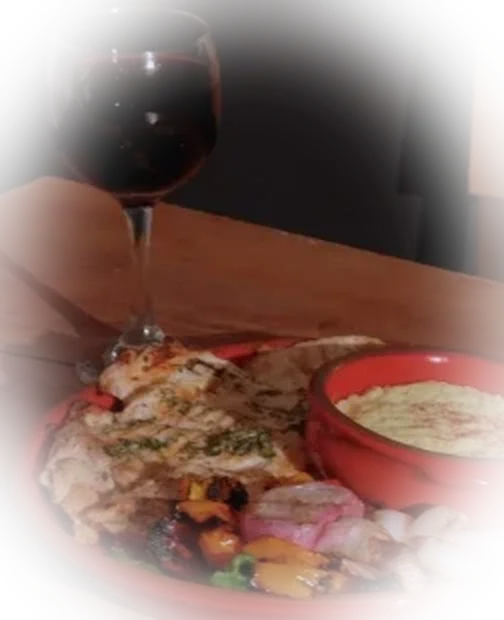
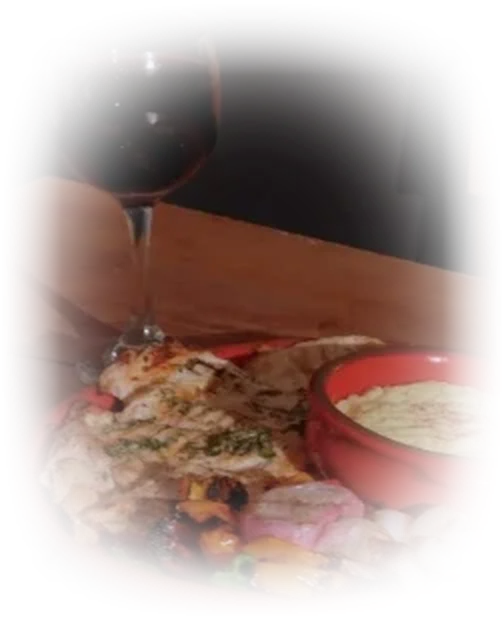
Jaguar House: estilo bistró oscuro (referencia de Daniel)

diff --git a/jaguar-house/modulos/restaurante/restaurante-datos.js b/jaguar-house/modulos/restaurante/restaurante-datos.js
@@ -1,2 +1,2 @@
 /* Datos del módulo de restaurante de Jaguar House (generado desde clientes/jaguar-house/cliente.json). Solo la clave anon de Supabase; nunca service_role (§4.11). Ver modulos/restaurante/README.md. */
-window.RESTDATA = {"logo": "assets/logo.webp", "api": {"modo": "demo"}, "stock_bajo": 5, "productos": [{"clave": "parrilla-1", "nombre": "Plato de la parrilla 1", "categoria": "parrilla", "precio_cent": 1290, "lema": "Ejemplo", "ingredientes": "Plato de ejemplo: se reemplaza con tu carta real", "foto": null, "cuenta_burger": true, "controla_stock": true, "orden": 0}, {"clave": "parrilla-2", "nombre": "Plato de la parrilla 2", "categoria": "parrilla", "precio_cent": 1490, "lema": "Ejemplo", "ingredientes": "Plato de ejemplo: se reemplaza con tu carta real", "foto": null, "cuenta_burger": true, "controla_stock": true, "orden": 1}, {"clave": "parrilla-3", "nombre": "Plato de la parrilla 3", "categoria": "parrilla", "precio_cent": 1690, "lema": "Ejemplo", "ingredientes": "Plato de ejemplo: se reemplaza con tu carta real", "foto": null, "cuenta_burger": true, "controla_stock": true, "orden": 2}, {"clave": "compartir-1", "nombre": "Tabla para compartir 1", "categoria": "compartir", "precio_cent": 1890, "lema": "Ejemplo", "ingredientes": "Plato de ejemplo: se reemplaza con tu carta real", "foto": null, "cuenta_burger": true, "controla_stock": true, "orden": 3}, {"clave": "compartir-2", "nombre": "Tabla para compartir 2", "categoria": "compartir", "precio_cent": 2290, "lema": "Ejemplo", "ingredientes": "Plato de ejemplo: se reemplaza con tu carta real", "foto": null, "cuenta_burger": true, "controla_stock": true, "orden": 4}, {"clave": "casa-1", "nombre": "Plato de la casa 1", "categoria": "casa", "precio_cent": 890, "lema": "Ejemplo", "ingredientes": "Plato de ejemplo: se reemplaza con tu carta real", "foto": null, "cuenta_burger": true, "controla_stock": true, "orden": 5}, {"clave": "casa-2", "nombre": "Plato de la casa 2", "categoria": "casa", "precio_cent": 990, "lema": "Ejemplo", "ingredientes": "Plato de ejemplo: se reemplaza con tu carta real", "foto": null, "cuenta_burger": true, "controla_stock": true, "orden": 6}, {"clave": "acomp-1", "nombre": "Acompañante 1", "categoria": "acomp", "precio_cent": 450, "lema": null, "ingredientes": null, "foto": null, "cuenta_burger": false, "controla_stock": false, "orden": 7}, {"clave": "acomp-2", "nombre": "Acompañante 2", "categoria": "acomp", "precio_cent": 350, "lema": null, "ingredientes": null, "foto": null, "cuenta_burger": false, "controla_stock": false, "orden": 8}, {"clave": "bebida-1", "nombre": "Bebida 1", "categoria": "bebidas", "precio_cent": 250, "lema": null, "ingredientes": null, "foto": null, "cuenta_burger": false, "controla_stock": false, "orden": 9}, {"clave": "bebida-2", "nombre": "Bebida 2", "categoria": "bebidas", "precio_cent": 350, "lema": null, "ingredientes": null, "foto": null, "cuenta_burger": false, "controla_stock": false, "orden": 10}, {"clave": "bebida-3", "nombre": "Trago de la casa (ejemplo)", "categoria": "bebidas", "precio_cent": 450, "lema": null, "ingredientes": null, "foto": null, "cuenta_burger": false, "controla_stock": false, "orden": 11}, {"clave": "x-1", "nombre": "Extra de ejemplo 1", "categoria": "extras", "precio_cent": 150, "lema": null, "ingredientes": null, "foto": null, "cuenta_burger": false, "controla_stock": false, "orden": 12}, {"clave": "x-2", "nombre": "Extra de ejemplo 2", "categoria": "extras", "precio_cent": 200, "lema": null, "ingredientes": null, "foto": null, "cuenta_burger": false, "controla_stock": false, "orden": 13}, {"clave": "x-3", "nombre": "Extra de ejemplo 3", "categoria": "extras", "precio_cent": 100, "lema": null, "ingredientes": null, "foto": null, "cuenta_burger": false, "controla_stock": false, "orden": 14}, {"clave": "x-4", "nombre": "Extra de ejemplo 4", "categoria": "extras", "precio_cent": 150, "lema": null, "ingredientes": null, "foto": null, "cuenta_burger": false, "controla_stock": false, "orden": 15}], "sectores": [{"nombre": "Baños centro", "costo_cent": 0}, {"nombre": "Zona 2 (ejemplo)", "costo_cent": 0}, {"nombre": "Zona 3 (ejemplo)", "costo_cent": 0}], "categorias": [{"id": "parrilla", "nombre": "La parrilla", "sub": "Del fuego", "ids": ["parrilla-1", "parrilla-2", "parrilla-3"]}, {"id": "compartir", "nombre": "Para compartir", "sub": "Para la mesa", "ids": ["compartir-1", "compartir-2"]}, {"id": "casa", "nombre": "Más platos", "sub": "De la casa", "ids": ["casa-1", "casa-2"]}, {"id": "acomp", "nombre": "Acompañantes", "sub": "Para acompañar", "ids": ["acomp-1", "acomp-2"]}, {"id": "bebidas", "nombre": "Bebidas", "sub": "Para brindar", "ids": ["bebida-1", "bebida-2", "bebida-3"]}], "vitrina": [{"id": "parrilla-1", "nombre": "Plato de la parrilla 1", "titulo": "Parrilla", "precio_cent": 1290, "intro": "Ejemplo", "ingredientes": "Plato de ejemplo: se reemplaza con tu carta real", "corte": "assets/corte-plato-brasa.webp", "alt": "Plato de carne con papas y copa de vino", "glow": "#b45a14"}, {"id": "compartir-1", "nombre": "Tabla para compartir 1", "titulo": "Mesa", "precio_cent": 1890, "intro": "Ejemplo", "ingredientes": "Plato de ejemplo: se reemplaza con tu carta real", "corte": "assets/corte-copa-tabla.webp", "alt": "Copa de vino y tabla servida", "glow": "#8a1c1c"}, {"id": null, "nombre": "Promo del día (ejemplo)", "titulo": "Fuego", "precio_cent": null, "etiqueta": "Promo del día (ejemplo)", "intro": "Aquí va la promo vigente: se actualiza con tu mantenimiento mensual.", "ingredientes": null, "corte": "assets/corte-grill-llamas.webp", "alt": "Carne en la parrilla con llamas", "glow": "#d9701a", "wa_texto": "Hola Jaguar House, quiero saber cuál es la promo de hoy."}], "demo": {"usuarios": [{"nombre": "Dueño", "rol": "admin"}, {"nombre": "Ana", "rol": "vendedor"}, {"nombre": "Beto", "rol": "vendedor"}], "equipo": ["Ana", "Beto"], "stock": {"parrilla-1": 60, "parrilla-2": 50, "parrilla-3": 60, "compartir-1": 40, "compartir-2": 40, "casa-1": 30, "casa-2": 25}, "pesos": [["parrilla-1", 22], ["parrilla-2", 18], ["parrilla-3", 16], ["compartir-1", 10], ["compartir-2", 12], ["casa-1", 8], ["casa-2", 5]], "acompanante": "acomp-2", "bebida": "bebida-1", "contador_base": 18240}, "burgers_txt": {"lleva": "Lo que lleva", "sin_ingredientes": "Ingredientes por confirmar con el local", "quedan": "Quedan {n} hoy", "agotada": "Agotada por hoy", "pedir_esta": "Pedir este plato", "consultar": "Consultar por WhatsApp", "led_titulo": "Platos vendidos en {anio}"}, "dashboard_txt": {"entrada_titulo": "Dashboard del dueño", "entrada_texto": "Entra para ver cuántos platos se venden hoy, qué queda en stock y cómo te piden, en tiempo real."}, "personal_txt": {"entrada_titulo": "Pantalla de ventas", "entrada_texto": "Entra para registrar cada plato que sale del local y confirmar los pedidos que llegan de la web."}, "juego_txt": null, "juego_premio": false, "sectores_ejemplo": true, "envio_por_confirmar": false};
+window.RESTDATA = {"logo": "assets/logo.webp", "api": {"modo": "demo"}, "stock_bajo": 5, "productos": [{"clave": "parrilla-1", "nombre": "Plato de la parrilla 1", "categoria": "parrilla", "precio_cent": 1290, "lema": "Del fuego a tu mesa", "ingredientes": "Plato de ejemplo: se reemplaza con tu carta real", "foto": null, "cuenta_burger": true, "controla_stock": true, "orden": 0}, {"clave": "parrilla-2", "nombre": "Plato de la parrilla 2", "categoria": "parrilla", "precio_cent": 1490, "lema": "Del fuego a tu mesa", "ingredientes": "Plato de ejemplo: se reemplaza con tu carta real", "foto": null, "cuenta_burger": true, "controla_stock": true, "orden": 1}, {"clave": "parrilla-3", "nombre": "Plato de la parrilla 3", "categoria": "parrilla", "precio_cent": 1690, "lema": "Del fuego a tu mesa", "ingredientes": "Plato de ejemplo: se reemplaza con tu carta real", "foto": null, "cuenta_burger": true, "controla_stock": true, "orden": 2}, {"clave": "compartir-1", "nombre": "Tabla para compartir 1", "categoria": "compartir", "precio_cent": 1890, "lema": "Para compartir en el RoofTop", "ingredientes": "Plato de ejemplo: se reemplaza con tu carta real", "foto": null, "cuenta_burger": true, "controla_stock": true, "orden": 3}, {"clave": "compartir-2", "nombre": "Tabla para compartir 2", "categoria": "compartir", "precio_cent": 2290, "lema": "Para compartir en el RoofTop", "ingredientes": "Plato de ejemplo: se reemplaza con tu carta real", "foto": null, "cuenta_burger": true, "controla_stock": true, "orden": 4}, {"clave": "casa-1", "nombre": "Plato de la casa 1", "categoria": "casa", "precio_cent": 890, "lema": "De la casa", "ingredientes": "Plato de ejemplo: se reemplaza con tu carta real", "foto": null, "cuenta_burger": true, "controla_stock": true, "orden": 5}, {"clave": "casa-2", "nombre": "Plato de la casa 2", "categoria": "casa", "precio_cent": 990, "lema": "De la casa", "ingredientes": "Plato de ejemplo: se reemplaza con tu carta real", "foto": null, "cuenta_burger": true, "controla_stock": true, "orden": 6}, {"clave": "acomp-1", "nombre": "Acompañante 1", "categoria": "acomp", "precio_cent": 450, "lema": null, "ingredientes": null, "foto": null, "cuenta_burger": false, "controla_stock": false, "orden": 7}, {"clave": "acomp-2", "nombre": "Acompañante 2", "categoria": "acomp", "precio_cent": 350, "lema": null, "ingredientes": null, "foto": null, "cuenta_burger": false, "controla_stock": false, "orden": 8}, {"clave": "bebida-1", "nombre": "Bebida 1", "categoria": "bebidas", "precio_cent": 250, "lema": null, "ingredientes": null, "foto": null, "cuenta_burger": false, "controla_stock": false, "orden": 9}, {"clave": "bebida-2", "nombre": "Bebida 2", "categoria": "bebidas", "precio_cent": 350, "lema": null, "ingredientes": null, "foto": null, "cuenta_burger": false, "controla_stock": false, "orden": 10}, {"clave": "bebida-3", "nombre": "Trago de la casa (ejemplo)", "categoria": "bebidas", "precio_cent": 450, "lema": null, "ingredientes": null, "foto": null, "cuenta_burger": false, "controla_stock": false, "orden": 11}, {"clave": "x-1", "nombre": "Extra de ejemplo 1", "categoria": "extras", "precio_cent": 150, "lema": null, "ingredientes": null, "foto": null, "cuenta_burger": false, "controla_stock": false, "orden": 12}, {"clave": "x-2", "nombre": "Extra de ejemplo 2", "categoria": "extras", "precio_cent": 200, "lema": null, "ingredientes": null, "foto": null, "cuenta_burger": false, "controla_stock": false, "orden": 13}, {"clave": "x-3", "nombre": "Extra de ejemplo 3", "categoria": "extras", "precio_cent": 100, "lema": null, "ingredientes": null, "foto": null, "cuenta_burger": false, "controla_stock": false, "orden": 14}, {"clave": "x-4", "nombre": "Extra de ejemplo 4", "categoria": "extras", "precio_cent": 150, "lema": null, "ingredientes": null, "foto": null, "cuenta_burger": false, "controla_stock": false, "orden": 15}], "sectores": [{"nombre": "Baños centro", "costo_cent": 0}, {"nombre": "Zona 2 (ejemplo)", "costo_cent": 0}, {"nombre": "Zona 3 (ejemplo)", "costo_cent": 0}], "categorias": [{"id": "parrilla", "nombre": "La parrilla", "sub": "Del fuego", "ids": ["parrilla-1", "parrilla-2", "parrilla-3"]}, {"id": "compartir", "nombre": "Para compartir", "sub": "Para la mesa", "ids": ["compartir-1", "compartir-2"]}, {"id": "casa", "nombre": "Más platos", "sub": "De la casa", "ids": ["casa-1", "casa-2"]}, {"id": "acomp", "nombre": "Acompañantes", "sub": "Para acompañar", "ids": ["acomp-1", "acomp-2"]}, {"id": "bebidas", "nombre": "Bebidas", "sub": "Para brindar", "ids": ["bebida-1", "bebida-2", "bebida-3"]}], "vitrina": [{"id": "parrilla-1", "nombre": "Plato de la parrilla 1", "titulo": "Parrilla", "precio_cent": 1290, "intro": "Del fuego a tu mesa", "ingredientes": "Plato de ejemplo: se reemplaza con tu carta real", "corte": "assets/corte-plato-brasa.webp", "alt": "Plato de carne con papas y copa de vino", "glow": "#b45a14"}, {"id": "compartir-1", "nombre": "Tabla para compartir 1", "titulo": "Mesa", "precio_cent": 1890, "intro": "Para compartir en el RoofTop", "ingredientes": "Plato de ejemplo: se reemplaza con tu carta real", "corte": "assets/corte-copa-tabla.webp", "alt": "Copa de vino y tabla servida", "glow": "#8a1c1c"}, {"id": "casa-1", "nombre": "Plato de la casa 1", "titulo": "Mar", "precio_cent": 890, "intro": "De la casa", "ingredientes": "Plato de ejemplo: se reemplaza con tu carta real", "corte": "assets/corte-camarones.webp", "alt": "Plato de camarones servido", "glow": "#8a1c1c"}, {"id": null, "nombre": "Promo del día (ejemplo)", "titulo": "Fuego", "precio_cent": null, "etiqueta": "Promo del día (ejemplo)", "intro": "Aquí va la promo vigente: se actualiza con tu mantenimiento mensual.", "ingredientes": null, "corte": "assets/corte-grill-llamas.webp", "alt": "Carne en la parrilla con llamas", "glow": "#d9701a", "wa_texto": "Hola Jaguar House, quiero saber cuál es la promo de hoy."}], "demo": {"usuarios": [{"nombre": "Dueño", "rol": "admin"}, {"nombre": "Ana", "rol": "vendedor"}, {"nombre": "Beto", "rol": "vendedor"}], "equipo": ["Ana", "Beto"], "stock": {"parrilla-1": 60, "parrilla-2": 50, "parrilla-3": 60, "compartir-1": 40, "compartir-2": 40, "casa-1": 30, "casa-2": 25}, "pesos": [["parrilla-1", 22], ["parrilla-2", 18], ["parrilla-3", 16], ["compartir-1", 10], ["compartir-2", 12], ["casa-1", 8], ["casa-2", 5]], "acompanante": "acomp-2", "bebida": "bebida-1", "contador_base": 18240}, "burgers_txt": {"lleva": "Lo que lleva", "sin_ingredientes": "Ingredientes por confirmar con el local", "quedan": "Quedan {n} hoy", "agotada": "Agotada por hoy", "pedir_esta": "Pedir este plato", "consultar": "Consultar por WhatsApp", "led_titulo": "Platos vendidos en {anio}"}, "dashboard_txt": {"entrada_titulo": "Dashboard del dueño", "entrada_texto": "Entra para ver cuántos platos se venden hoy, qué queda en stock y cómo te piden, en tiempo real."}, "personal_txt": {"entrada_titulo": "Pantalla de ventas", "entrada_texto": "Entra para registrar cada plato que sale del local y confirmar los pedidos que llegan de la web."}, "juego_txt": null, "juego_premio": false, "sectores_ejemplo": true, "envio_por_confirmar": false};

diff --git a/jaguar-house/efectos/bistro.css b/jaguar-house/efectos/bistro.css
@@ -1,0 +1,46 @@
+/* efectos/bistro.css · complemento OPCIONAL de estilo "bistró oscuro" (se elige con efectos.usar = ["bistro"]). Se carga después del perfil.
+   Referencia: web de restaurante oscura y cálida: foto de fondo desenfocada, titular serif centrado con botón rojo pequeño y tarjetas de platos.
+   Solo aplica a la landing con vitrina (body.rb-pagina). TODO ESTÁTICO (sin animaciones nuevas). Colores de la marca (--fx-*); la serif se carga en marca.fuentes_href.
+   El fondo es assets/fondo-bistro.webp del cliente (borroso a propósito: sirve con fotos de baja resolución). */
+body.rb-pagina { --bi-serif: "Playfair Display", Georgia, "Times New Roman", serif; --bi-rojo-texto: #fff; }
+.rb-pagina h1, .rb-pagina h2, .rb-pagina h3, .rb-pagina .doble { font-family: var(--bi-serif); text-transform: none; letter-spacing: 0; }
+.rb-pagina .doble span, .rb-pagina .rb-carta h2 span, .rb-pagina .rb-detalle h2 span { font-family: var(--bi-serif); font-style: italic; font-weight: 400; color: var(--fx-pop); }
+.rb-pagina .doble { text-align: center; }
+.rb-pagina .rb-fila, .rb-pagina .rb-glow { display: none; }
+.rb-pagina .rb-filas, .rb-pagina #rb-glows { display: none; }
+
+/* Portada: foto de fondo desenfocada, titular centrado, plato abajo */
+.rb-pagina .rb-hero { text-align: center; padding-bottom: clamp(26px, 4vw, 44px); min-height: min(100svh, 880px);
+  background: linear-gradient(180deg, rgba(10, 5, 4, .66) 0%, rgba(10, 5, 4, .28) 38%, rgba(10, 5, 4, .94) 100%), url("../assets/fondo-bistro.webp") center / cover no-repeat, var(--fx-deep-2); }
+.rb-pagina .rb-pie { display: contents; }
+.rb-pagina .rb-texto { order: 1; margin-top: clamp(120px, 13vw, 160px); padding-inline: 18px; display: grid; justify-items: center; }
+.rb-pagina .rb-escena { order: 2; margin-top: clamp(8px, 2vw, 22px); height: clamp(250px, 32vw, 440px); }
+.rb-pagina .rb-derecha { order: 3; align-self: center; margin-top: 8px; }
+.rb-pagina .rb-intro { font: italic 400 clamp(1.05rem, 1.8vw, 1.35rem)/1.3 var(--bi-serif); color: var(--fx-pop); margin-bottom: 6px; }
+.rb-pagina .rb-nombre { font: 700 clamp(2.5rem, 6.4vw, 5rem)/1.02 var(--bi-serif); text-transform: none; text-shadow: 0 4px 30px rgba(0, 0, 0, .55); }
+.rb-pagina .rb-desc { margin-top: 18px; padding: 13px 26px; border-radius: 4px; background: var(--fx-accent); color: var(--bi-rojo-texto); font: 600 1rem/1 var(--fx-font-txt); letter-spacing: .06em; text-transform: uppercase; }
+.rb-pagina .rb-precio { border-right-color: rgba(255, 255, 255, .55); font: 600 1.05rem/1 var(--fx-font-txt); margin-right: 12px; padding-right: 12px; }
+.rb-pagina .rb-slide img { filter: drop-shadow(0 30px 40px rgba(0, 0, 0, .7)); }
+.rb-pagina .rb-controles { gap: 6px; }
+.rb-pagina .rb-contador { display: none; }
+.rb-pagina .rb-pill { border-radius: 4px; border-width: 1px; letter-spacing: .08em; font-weight: 600; }
+.rb-pagina .rb-pill.lleno, .rb-pagina .rb-boton.lleno, .rb-pagina .btn, .rb-pagina .pd-btn { color: var(--bi-rojo-texto); }
+.rb-pagina .rb-boton, .rb-pagina .btn, .rb-pagina .pd-btn, .rb-pagina .pd-btn.pd-btn-full { border-radius: 4px; }
+
+/* Platos destacados / categorías: tarjetas con foto, título serif centrado y botón redondo */
+.rb-pagina .rb-cats .fila { justify-content: center; }
+.rb-pagina .rb-cat { text-align: center; }
+.rb-pagina .rb-cat .foto { border: 1px solid var(--fx-line-deep); border-radius: 10px; }
+.rb-pagina .rb-cat h3 { justify-content: center; font: 700 1.45rem/1.1 var(--bi-serif); }
+.rb-pagina .rb-cat h3 svg { width: 30px; height: 30px; padding: 7px; border: 1px solid var(--fx-pop); border-radius: 50%; }
+.rb-pagina .rb-cat p { max-width: 28ch; margin-inline: auto; }
+.rb-pagina .rb-cats .doble, .rb-pagina .rb-cats h2 { text-align: center; }
+.rb-pagina .rb-tarjeta, .rb-pagina .pd-item, .rb-pagina .caja { border-radius: 10px; }
+.rb-pagina .rb-ficha { border-radius: 4px; }
+@media (max-width: 760px) { .rb-pagina .rb-texto { margin-top: 112px; } .rb-pagina .rb-escena { height: 280px; margin-bottom: 0; } }
+.rb-pagina .rb-detalle h2, .rb-pagina .rb-carta h2, .rb-pagina .rb-tarjeta h3, .rb-pagina .pd-cat h2, .rb-pagina .pd-item h3, .rb-pagina .caja h2, .rb-pagina .caja h3, .rb-pagina .paso h3, .rb-pagina .cierre h2 { font-family: var(--bi-serif); text-transform: none; font-weight: 700; letter-spacing: 0; }
+.rb-pagina .rb-detalle h2 { font-size: clamp(1.7rem, 3.6vw, 2.4rem); }
+body.rb-pagina .pd-cat h2, body.rb-pagina .pd-cat h2 span, body.rb-pagina .pd-temporada h2, body.rb-pagina .pd-temporada h3, body.rb-pagina [class*="pd-temp"] h3, body.rb-pagina [class*="pd-temp"] h2 { font-family: var(--bi-serif); text-transform: none; letter-spacing: 0; }
+body.rb-pagina .pd-cat h2 { font-weight: 700; }
+body.rb-pagina .pd-cat h2 span { font-style: italic; font-weight: 400; }
+body.rb-pagina .pd-temporada h3 { font: 700 clamp(2rem, 7vw, 3rem)/1.05 var(--bi-serif); text-transform: none; }

diff --git a/jaguar-house/index.html b/jaguar-house/index.html
@@ -4,14 +4,15 @@
 <meta charset="utf-8">
 <meta name="viewport" content="width=device-width, initial-scale=1, viewport-fit=cover">
 <meta name="robots" content="noindex, nofollow">
-<meta name="theme-color" content="#0B0B0B">
+<meta name="theme-color" content="#0E0807">
 <link rel="icon" href="assets/favicon.png">
 <link rel="preconnect" href="https://fonts.googleapis.com"><link rel="preconnect" href="https://fonts.gstatic.com" crossorigin>
-<link rel="stylesheet" href="https://fonts.googleapis.com/css2?family=Bebas+Neue&amp;family=Outfit:wght@300;400;600;800&amp;display=swap" media="print" onload="this.media='all'"><noscript><link rel="stylesheet" href="https://fonts.googleapis.com/css2?family=Bebas+Neue&amp;family=Outfit:wght@300;400;600;800&amp;display=swap"></noscript>
+<link rel="stylesheet" href="https://fonts.googleapis.com/css2?family=Bebas+Neue&amp;family=Outfit:wght@300;400;600;800&amp;family=Playfair+Display:ital,wght@0,600;0,700;1,400&amp;display=swap" media="print" onload="this.media='all'"><noscript><link rel="stylesheet" href="https://fonts.googleapis.com/css2?family=Bebas+Neue&amp;family=Outfit:wght@300;400;600;800&amp;family=Playfair+Display:ital,wght@0,600;0,700;1,400&amp;display=swap"></noscript>
 <link rel="stylesheet" href="estilos/base.css">
 <link rel="stylesheet" href="efectos/base.css">
 <link rel="stylesheet" href="efectos/energia.css">
-<style>:root { --fx-bg: #F4F1EA; --fx-paper: #FFFFFF; --fx-accent: #F4F1EA; --fx-ink: #0B0B0B; --fx-deep: #0B0B0B; --fx-pop: #D9D3C7; --fx-font: "Outfit", Arial, sans-serif; --fx-font-disp: "Bebas Neue", Impact, "Arial Narrow", sans-serif; --fx-font-txt: "Outfit", Arial, sans-serif; --fx-deep-2: #000000; --fx-line-deep: #2A2A2A; --fx-soft: #E8E4DB; --fx-soft-2: #BDB8AD; --fx-warm: #7A6A55; --fx-chat: #E6E1D6; }</style>
+<link rel="stylesheet" href="efectos/bistro.css">
+<style>:root { --fx-bg: #F3E9DC; --fx-paper: #FFFFFF; --fx-accent: #B5121B; --fx-ink: #1A0F0C; --fx-deep: #1A0F0C; --fx-pop: #D8B08A; --fx-font: "Outfit", Arial, sans-serif; --fx-font-disp: "Bebas Neue", Impact, "Arial Narrow", sans-serif; --fx-font-txt: "Outfit", Arial, sans-serif; --fx-deep-2: #0E0807; --fx-line-deep: #3A2420; --fx-soft: #E8DCCD; --fx-soft-2: #BFA99A; --fx-warm: #7A5A3C; --fx-chat: #E9DDCD; }</style>
 
 <title>Demo de Jaguar House · página, vitrina, dashboard y pantalla de ventas</title>
 <meta name="description" content="Prueba la página de Jaguar House, la vitrina de platos, el dashboard del dueño y la pantalla de ventas del personal, todo con datos de ejemplo.">

diff --git a/jaguar-house/premium.html b/jaguar-house/premium.html
@@ -4,15 +4,16 @@
 <meta charset="utf-8">
 <meta name="viewport" content="width=device-width, initial-scale=1, viewport-fit=cover">
 <meta name="robots" content="noindex, nofollow">
-<meta name="theme-color" content="#0B0B0B">
+<meta name="theme-color" content="#0E0807">
 <link rel="icon" href="assets/favicon.png">
 <link rel="preconnect" href="https://fonts.googleapis.com"><link rel="preconnect" href="https://fonts.gstatic.com" crossorigin>
-<link rel="stylesheet" href="https://fonts.googleapis.com/css2?family=Bebas+Neue&amp;family=Outfit:wght@300;400;600;800&amp;display=swap" media="print" onload="this.media='all'"><noscript><link rel="stylesheet" href="https://fonts.googleapis.com/css2?family=Bebas+Neue&amp;family=Outfit:wght@300;400;600;800&amp;display=swap"></noscript>
+<link rel="stylesheet" href="https://fonts.googleapis.com/css2?family=Bebas+Neue&amp;family=Outfit:wght@300;400;600;800&amp;family=Playfair+Display:ital,wght@0,600;0,700;1,400&amp;display=swap" media="print" onload="this.media='all'"><noscript><link rel="stylesheet" href="https://fonts.googleapis.com/css2?family=Bebas+Neue&amp;family=Outfit:wght@300;400;600;800&amp;family=Playfair+Display:ital,wght@0,600;0,700;1,400&amp;display=swap"></noscript>
 <link rel="stylesheet" href="estilos/base.css">
 <link rel="stylesheet" href="efectos/base.css">
 <link rel="stylesheet" href="efectos/energia.css">
+<link rel="stylesheet" href="efectos/bistro.css">
 <link rel="stylesheet" href="motor/pedido.css">
-<style>:root { --fx-bg: #F4F1EA; --fx-paper: #FFFFFF; --fx-accent: #F4F1EA; --fx-ink: #0B0B0B; --fx-deep: #0B0B0B; --fx-pop: #D9D3C7; --fx-font: "Outfit", Arial, sans-serif; --fx-font-disp: "Bebas Neue", Impact, "Arial Narrow", sans-serif; --fx-font-txt: "Outfit", Arial, sans-serif; --fx-deep-2: #000000; --fx-line-deep: #2A2A2A; --fx-soft: #E8E4DB; --fx-soft-2: #BDB8AD; --fx-warm: #7A6A55; --fx-chat: #E6E1D6; }</style>
+<style>:root { --fx-bg: #F3E9DC; --fx-paper: #FFFFFF; --fx-accent: #B5121B; --fx-ink: #1A0F0C; --fx-deep: #1A0F0C; --fx-pop: #D8B08A; --fx-font: "Outfit", Arial, sans-serif; --fx-font-disp: "Bebas Neue", Impact, "Arial Narrow", sans-serif; --fx-font-txt: "Outfit", Arial, sans-serif; --fx-deep-2: #0E0807; --fx-line-deep: #3A2420; --fx-soft: #E8DCCD; --fx-soft-2: #BFA99A; --fx-warm: #7A5A3C; --fx-chat: #E9DDCD; }</style>
 
 <title>Jaguar House · Versión Premium</title>
 <meta name="description" content="Pantalla Premium de la demo de Jaguar House: envío por sector, pedidos programados y reporte.">

diff --git a/jaguar-house/personal.html b/jaguar-house/personal.html
@@ -4,14 +4,15 @@
 <meta charset="utf-8">
 <meta name="viewport" content="width=device-width, initial-scale=1, viewport-fit=cover">
 <meta name="robots" content="noindex, nofollow">
-<meta name="theme-color" content="#0B0B0B">
+<meta name="theme-color" content="#0E0807">
 <link rel="icon" href="assets/favicon.png">
 <link rel="preconnect" href="https://fonts.googleapis.com"><link rel="preconnect" href="https://fonts.gstatic.com" crossorigin>
-<link rel="stylesheet" href="https://fonts.googleapis.com/css2?family=Bebas+Neue&amp;family=Outfit:wght@300;400;600;800&amp;display=swap" media="print" onload="this.media='all'"><noscript><link rel="stylesheet" href="https://fonts.googleapis.com/css2?family=Bebas+Neue&amp;family=Outfit:wght@300;400;600;800&amp;display=swap"></noscript>
+<link rel="stylesheet" href="https://fonts.googleapis.com/css2?family=Bebas+Neue&amp;family=Outfit:wght@300;400;600;800&amp;family=Playfair+Display:ital,wght@0,600;0,700;1,400&amp;display=swap" media="print" onload="this.media='all'"><noscript><link rel="stylesheet" href="https://fonts.googleapis.com/css2?family=Bebas+Neue&amp;family=Outfit:wght@300;400;600;800&amp;family=Playfair+Display:ital,wght@0,600;0,700;1,400&amp;display=swap"></noscript>
 <link rel="stylesheet" href="estilos/base.css">
 <link rel="stylesheet" href="efectos/base.css">
 <link rel="stylesheet" href="efectos/energia.css">
-<style>:root { --fx-bg: #F4F1EA; --fx-paper: #FFFFFF; --fx-accent: #F4F1EA; --fx-ink: #0B0B0B; --fx-deep: #0B0B0B; --fx-pop: #D9D3C7; --fx-font: "Outfit", Arial, sans-serif; --fx-font-disp: "Bebas Neue", Impact, "Arial Narrow", sans-serif; --fx-font-txt: "Outfit", Arial, sans-serif; --fx-deep-2: #000000; --fx-line-deep: #2A2A2A; --fx-soft: #E8E4DB; --fx-soft-2: #BDB8AD; --fx-warm: #7A6A55; --fx-chat: #E6E1D6; }</style>
+<link rel="stylesheet" href="efectos/bistro.css">
+<style>:root { --fx-bg: #F3E9DC; --fx-paper: #FFFFFF; --fx-accent: #B5121B; --fx-ink: #1A0F0C; --fx-deep: #1A0F0C; --fx-pop: #D8B08A; --fx-font: "Outfit", Arial, sans-serif; --fx-font-disp: "Bebas Neue", Impact, "Arial Narrow", sans-serif; --fx-font-txt: "Outfit", Arial, sans-serif; --fx-deep-2: #0E0807; --fx-line-deep: #3A2420; --fx-soft: #E8DCCD; --fx-soft-2: #BFA99A; --fx-warm: #7A5A3C; --fx-chat: #E9DDCD; }</style>
 
 <title>Pantalla de ventas · Jaguar House (Premium)</title>
 <meta name="description" content="Pantalla del personal de Jaguar House: registrar ventas del local, confirmar pedidos de la web y anular errores.">

diff --git a/jaguar-house/inicio.html b/jaguar-house/inicio.html
@@ -4,15 +4,16 @@
 <meta charset="utf-8">
 <meta name="viewport" content="width=device-width, initial-scale=1, viewport-fit=cover">
 <meta name="robots" content="noindex, nofollow">
-<meta name="theme-color" content="#0B0B0B">
+<meta name="theme-color" content="#0E0807">
 <link rel="icon" href="assets/favicon.png">
 <link rel="preconnect" href="https://fonts.googleapis.com"><link rel="preconnect" href="https://fonts.gstatic.com" crossorigin>
-<link rel="stylesheet" href="https://fonts.googleapis.com/css2?family=Bebas+Neue&amp;family=Outfit:wght@300;400;600;800&amp;display=swap" media="print" onload="this.media='all'"><noscript><link rel="stylesheet" href="https://fonts.googleapis.com/css2?family=Bebas+Neue&amp;family=Outfit:wght@300;400;600;800&amp;display=swap"></noscript>
+<link rel="stylesheet" href="https://fonts.googleapis.com/css2?family=Bebas+Neue&amp;family=Outfit:wght@300;400;600;800&amp;family=Playfair+Display:ital,wght@0,600;0,700;1,400&amp;display=swap" media="print" onload="this.media='all'"><noscript><link rel="stylesheet" href="https://fonts.googleapis.com/css2?family=Bebas+Neue&amp;family=Outfit:wght@300;400;600;800&amp;family=Playfair+Display:ital,wght@0,600;0,700;1,400&amp;display=swap"></noscript>
 <link rel="stylesheet" href="estilos/base.css">
 <link rel="stylesheet" href="efectos/base.css">
 <link rel="stylesheet" href="efectos/energia.css">
+<link rel="stylesheet" href="efectos/bistro.css">
 <link rel="stylesheet" href="motor/pedido.css">
-<style>:root { --fx-bg: #F4F1EA; --fx-paper: #FFFFFF; --fx-accent: #F4F1EA; --fx-ink: #0B0B0B; --fx-deep: #0B0B0B; --fx-pop: #D9D3C7; --fx-font: "Outfit", Arial, sans-serif; --fx-font-disp: "Bebas Neue", Impact, "Arial Narrow", sans-serif; --fx-font-txt: "Outfit", Arial, sans-serif; --fx-deep-2: #000000; --fx-line-deep: #2A2A2A; --fx-soft: #E8E4DB; --fx-soft-2: #BDB8AD; --fx-warm: #7A6A55; --fx-chat: #E6E1D6; }</style>
+<style>:root { --fx-bg: #F3E9DC; --fx-paper: #FFFFFF; --fx-accent: #B5121B; --fx-ink: #1A0F0C; --fx-deep: #1A0F0C; --fx-pop: #D8B08A; --fx-font: "Outfit", Arial, sans-serif; --fx-font-disp: "Bebas Neue", Impact, "Arial Narrow", sans-serif; --fx-font-txt: "Outfit", Arial, sans-serif; --fx-deep-2: #0E0807; --fx-line-deep: #3A2420; --fx-soft: #E8DCCD; --fx-soft-2: #BFA99A; --fx-warm: #7A5A3C; --fx-chat: #E9DDCD; }</style>
 
 <link rel="stylesheet" href="modulos/restaurante/rest.css">
 <link rel="preload" as="image" href="assets/corte-plato-brasa.webp" fetchpriority="high">

diff --git a/jaguar-house/dashboard.html b/jaguar-house/dashboard.html
@@ -4,14 +4,15 @@
 <meta charset="utf-8">
 <meta name="viewport" content="width=device-width, initial-scale=1, viewport-fit=cover">
 <meta name="robots" content="noindex, nofollow">
-<meta name="theme-color" content="#0B0B0B">
+<meta name="theme-color" content="#0E0807">
 <link rel="icon" href="assets/favicon.png">
 <link rel="preconnect" href="https://fonts.googleapis.com"><link rel="preconnect" href="https://fonts.gstatic.com" crossorigin>
-<link rel="stylesheet" href="https://fonts.googleapis.com/css2?family=Bebas+Neue&amp;family=Outfit:wght@300;400;600;800&amp;display=swap" media="print" onload="this.media='all'"><noscript><link rel="stylesheet" href="https://fonts.googleapis.com/css2?family=Bebas+Neue&amp;family=Outfit:wght@300;400;600;800&amp;display=swap"></noscript>
+<link rel="stylesheet" href="https://fonts.googleapis.com/css2?family=Bebas+Neue&amp;family=Outfit:wght@300;400;600;800&amp;family=Playfair+Display:ital,wght@0,600;0,700;1,400&amp;display=swap" media="print" onload="this.media='all'"><noscript><link rel="stylesheet" href="https://fonts.googleapis.com/css2?family=Bebas+Neue&amp;family=Outfit:wght@300;400;600;800&amp;family=Playfair+Display:ital,wght@0,600;0,700;1,400&amp;display=swap"></noscript>
 <link rel="stylesheet" href="estilos/base.css">
 <link rel="stylesheet" href="efectos/base.css">
 <link rel="stylesheet" href="efectos/energia.css">
-<style>:root { --fx-bg: #F4F1EA; --fx-paper: #FFFFFF; --fx-accent: #F4F1EA; --fx-ink: #0B0B0B; --fx-deep: #0B0B0B; --fx-pop: #D9D3C7; --fx-font: "Outfit", Arial, sans-serif; --fx-font-disp: "Bebas Neue", Impact, "Arial Narrow", sans-serif; --fx-font-txt: "Outfit", Arial, sans-serif; --fx-deep-2: #000000; --fx-line-deep: #2A2A2A; --fx-soft: #E8E4DB; --fx-soft-2: #BDB8AD; --fx-warm: #7A6A55; --fx-chat: #E6E1D6; }</style>
+<link rel="stylesheet" href="efectos/bistro.css">
+<style>:root { --fx-bg: #F3E9DC; --fx-paper: #FFFFFF; --fx-accent: #B5121B; --fx-ink: #1A0F0C; --fx-deep: #1A0F0C; --fx-pop: #D8B08A; --fx-font: "Outfit", Arial, sans-serif; --fx-font-disp: "Bebas Neue", Impact, "Arial Narrow", sans-serif; --fx-font-txt: "Outfit", Arial, sans-serif; --fx-deep-2: #0E0807; --fx-line-deep: #3A2420; --fx-soft: #E8DCCD; --fx-soft-2: #BFA99A; --fx-warm: #7A5A3C; --fx-chat: #E9DDCD; }</style>
 
 <title>Dashboard del dueño · Jaguar House (Premium)</title>
 <meta name="description" content="Dashboard en vivo de Jaguar House: cuántos platos se venden, qué queda en stock y cómo te piden.">

diff --git a/jaguar-house/panel.html b/jaguar-house/panel.html
@@ -4,15 +4,16 @@
 <meta charset="utf-8">
 <meta name="viewport" content="width=device-width, initial-scale=1, viewport-fit=cover">
 <meta name="robots" content="noindex, nofollow">
-<meta name="theme-color" content="#0B0B0B">
+<meta name="theme-color" content="#0E0807">
 <link rel="icon" href="assets/favicon.png">
 <link rel="preconnect" href="https://fonts.googleapis.com"><link rel="preconnect" href="https://fonts.gstatic.com" crossorigin>
-<link rel="stylesheet" href="https://fonts.googleapis.com/css2?family=Bebas+Neue&amp;family=Outfit:wght@300;400;600;800&amp;display=swap" media="print" onload="this.media='all'"><noscript><link rel="stylesheet" href="https://fonts.googleapis.com/css2?family=Bebas+Neue&amp;family=Outfit:wght@300;400;600;800&amp;display=swap"></noscript>
+<link rel="stylesheet" href="https://fonts.googleapis.com/css2?family=Bebas+Neue&amp;family=Outfit:wght@300;400;600;800&amp;family=Playfair+Display:ital,wght@0,600;0,700;1,400&amp;display=swap" media="print" onload="this.media='all'"><noscript><link rel="stylesheet" href="https://fonts.googleapis.com/css2?family=Bebas+Neue&amp;family=Outfit:wght@300;400;600;800&amp;family=Playfair+Display:ital,wght@0,600;0,700;1,400&amp;display=swap"></noscript>
 <link rel="stylesheet" href="estilos/base.css">
 <link rel="stylesheet" href="efectos/base.css">
 <link rel="stylesheet" href="efectos/energia.css">
+<link rel="stylesheet" href="efectos/bistro.css">
 <link rel="stylesheet" href="motor/pedido.css">
-<style>:root { --fx-bg: #F4F1EA; --fx-paper: #FFFFFF; --fx-accent: #F4F1EA; --fx-ink: #0B0B0B; --fx-deep: #0B0B0B; --fx-pop: #D9D3C7; --fx-font: "Outfit", Arial, sans-serif; --fx-font-disp: "Bebas Neue", Impact, "Arial Narrow", sans-serif; --fx-font-txt: "Outfit", Arial, sans-serif; --fx-deep-2: #000000; --fx-line-deep: #2A2A2A; --fx-soft: #E8E4DB; --fx-soft-2: #BDB8AD; --fx-warm: #7A6A55; --fx-chat: #E6E1D6; }</style>
+<style>:root { --fx-bg: #F3E9DC; --fx-paper: #FFFFFF; --fx-accent: #B5121B; --fx-ink: #1A0F0C; --fx-deep: #1A0F0C; --fx-pop: #D8B08A; --fx-font: "Outfit", Arial, sans-serif; --fx-font-disp: "Bebas Neue", Impact, "Arial Narrow", sans-serif; --fx-font-txt: "Outfit", Arial, sans-serif; --fx-deep-2: #0E0807; --fx-line-deep: #3A2420; --fx-soft: #E8DCCD; --fx-soft-2: #BFA99A; --fx-warm: #7A5A3C; --fx-chat: #E9DDCD; }</style>
 
 <title>Lo que recibe Jaguar House · Panel de pedidos (Pro)</title>
 <meta name="description" content="Panel de pedidos de la demo de Jaguar House.">

diff --git a/jaguar-house/propuesta.html b/jaguar-house/propuesta.html
@@ -4,14 +4,15 @@
 <meta charset="utf-8">
 <meta name="viewport" content="width=device-width, initial-scale=1, viewport-fit=cover">
 <meta name="robots" content="noindex, nofollow">
-<meta name="theme-color" content="#0B0B0B">
+<meta name="theme-color" content="#0E0807">
 <link rel="icon" href="assets/favicon.png">
 <link rel="preconnect" href="https://fonts.googleapis.com"><link rel="preconnect" href="https://fonts.gstatic.com" crossorigin>
-<link rel="stylesheet" href="https://fonts.googleapis.com/css2?family=Bebas+Neue&amp;family=Outfit:wght@300;400;600;800&amp;display=swap" media="print" onload="this.media='all'"><noscript><link rel="stylesheet" href="https://fonts.googleapis.com/css2?family=Bebas+Neue&amp;family=Outfit:wght@300;400;600;800&amp;display=swap"></noscript>
+<link rel="stylesheet" href="https://fonts.googleapis.com/css2?family=Bebas+Neue&amp;family=Outfit:wght@300;400;600;800&amp;family=Playfair+Display:ital,wght@0,600;0,700;1,400&amp;display=swap" media="print" onload="this.media='all'"><noscript><link rel="stylesheet" href="https://fonts.googleapis.com/css2?family=Bebas+Neue&amp;family=Outfit:wght@300;400;600;800&amp;family=Playfair+Display:ital,wght@0,600;0,700;1,400&amp;display=swap"></noscript>
 <link rel="stylesheet" href="estilos/base.css">
 <link rel="stylesheet" href="efectos/base.css">
 <link rel="stylesheet" href="efectos/energia.css">
-<style>:root { --fx-bg: #F4F1EA; --fx-paper: #FFFFFF; --fx-accent: #F4F1EA; --fx-ink: #0B0B0B; --fx-deep: #0B0B0B; --fx-pop: #D9D3C7; --fx-font: "Outfit", Arial, sans-serif; --fx-font-disp: "Bebas Neue", Impact, "Arial Narrow", sans-serif; --fx-font-txt: "Outfit", Arial, sans-serif; --fx-deep-2: #000000; --fx-line-deep: #2A2A2A; --fx-soft: #E8E4DB; --fx-soft-2: #BDB8AD; --fx-warm: #7A6A55; --fx-chat: #E6E1D6; }</style>
+<link rel="stylesheet" href="efectos/bistro.css">
+<style>:root { --fx-bg: #F3E9DC; --fx-paper: #FFFFFF; --fx-accent: #B5121B; --fx-ink: #1A0F0C; --fx-deep: #1A0F0C; --fx-pop: #D8B08A; --fx-font: "Outfit", Arial, sans-serif; --fx-font-disp: "Bebas Neue", Impact, "Arial Narrow", sans-serif; --fx-font-txt: "Outfit", Arial, sans-serif; --fx-deep-2: #0E0807; --fx-line-deep: #3A2420; --fx-soft: #E8DCCD; --fx-soft-2: #BFA99A; --fx-warm: #7A5A3C; --fx-chat: #E9DDCD; }</style>
 
 <link rel="stylesheet" href="estilos/modulos.css">
 <title>Propuesta · Jaguar House</title>

diff --git a/jaguar-house/menu.js b/jaguar-house/menu.js
@@ -11,21 +11,21 @@ window.MENU = {
           "id": "parrilla-1",
           "nombre": "Plato de la parrilla 1",
           "precio": 1290,
-          "lema": "Ejemplo",
+          "lema": "Del fuego a tu mesa",
           "desc": "Plato de ejemplo: se reemplaza con tu carta real"
         },
         {
           "id": "parrilla-2",
           "nombre": "Plato de la parrilla 2",
           "precio": 1490,
-          "lema": "Ejemplo",
+          "lema": "Del fuego a tu mesa",
           "desc": "Plato de ejemplo: se reemplaza con tu carta real"
         },
         {
           "id": "parrilla-3",
           "nombre": "Plato de la parrilla 3",
           "precio": 1690,
-          "lema": "Ejemplo",
+          "lema": "Del fuego a tu mesa",
           "desc": "Plato de ejemplo: se reemplaza con tu carta real"
         }
       ]
@@ -40,14 +40,14 @@ window.MENU = {
           "id": "compartir-1",
           "nombre": "Tabla para compartir 1",
           "precio": 1890,
-          "lema": "Ejemplo",
+          "lema": "Para compartir en el RoofTop",
           "desc": "Plato de ejemplo: se reemplaza con tu carta real"
         },
         {
           "id": "compartir-2",
           "nombre": "Tabla para compartir 2",
           "precio": 2290,
-          "lema": "Ejemplo",
+          "lema": "Para compartir en el RoofTop",
           "desc": "Plato de ejemplo: se reemplaza con tu carta real"
         }
       ]
@@ -62,14 +62,14 @@ window.MENU = {
           "id": "casa-1",
           "nombre": "Plato de la casa 1",
           "precio": 890,
-          "lema": "Ejemplo",
+          "lema": "De la casa",
           "desc": "Plato de ejemplo: se reemplaza con tu carta real"
         },
         {
           "id": "casa-2",
           "nombre": "Plato de la casa 2",
           "precio": 990,
-          "lema": "Ejemplo",
+          "lema": "De la casa",
           "desc": "Plato de ejemplo: se reemplaza con tu carta real"
         }
       ]
